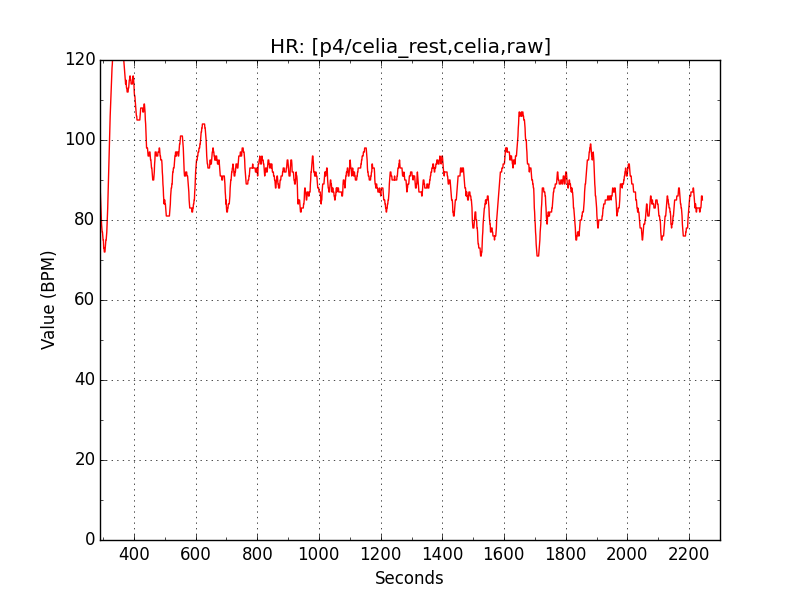
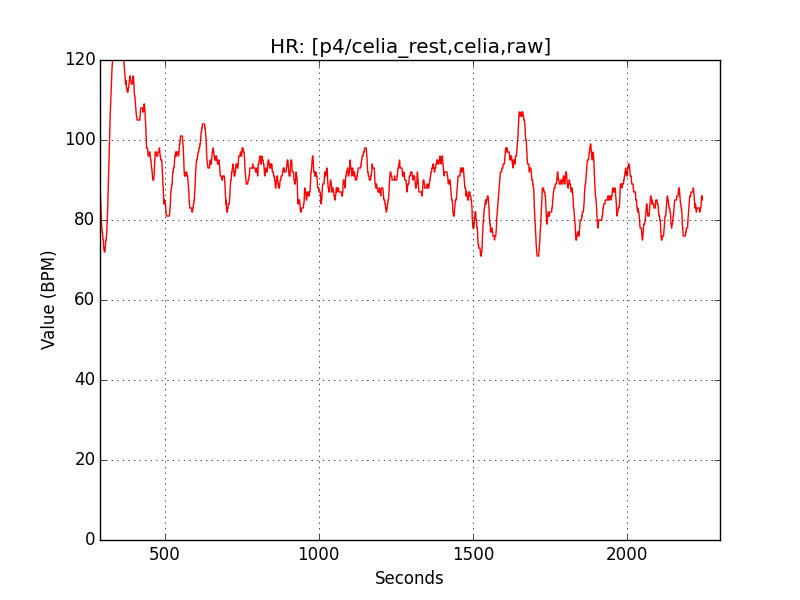
axis fix

diff --git a/process.py b/process.py
@@ -155,20 +155,20 @@ def plotIBI_ZEPHYR(subject,test,session, sounds = [],_limx=None,_limy=None,group
         #_path_norm = "%s/plots/%s_%s_HR_normalized" % (subject,subject,test)
         if (s._dataSOUNDS != None):
                 if(groupBySec):
-                        m = MyPlotter(_title_raw,_dataAvgBySec,"Seconds","Value (seconds) ",limx=_limx,limy=_limy,sounds=s.toSecSounds())
+                        m = MyPlotter(_title_raw,_dataAvgBySec,"Seconds","Value (seconds) ",limx=_limx,limy=_limy,sounds=s.toSecSounds(),_xTick=200,_yTick=1.0)
                 else:
-                        m = MyPlotter(_title_raw,_data_to_norm,"Seconds","Value (seconds) ",limx=_limx,limy=_limy,sounds=s.toSecSounds())
+                        m = MyPlotter(_title_raw,_data_to_norm,"Seconds","Value (seconds) ",limx=_limx,limy=_limy,sounds=s.toSecSounds(),_xTick=200,_yTick=1.0,_yTickMinor=0.1)
         elif (s._dataCODIFICATION != None):
                 if(groupBySec):
-                        m = MyPlotter(_title_raw,_dataAvgBySec,"Seconds","Value (seconds) ",limx=_limx,limy=_limy,codification=s._dataCODIFICATION)
+                        m = MyPlotter(_title_raw,_dataAvgBySec,"Seconds","Value (seconds) ",limx=_limx,limy=_limy,codification=s._dataCODIFICATION,_xTick=200,_yTick=2.0,_yTickMinor=0.1)
                 else:
-                        m = MyPlotter(_title_raw,_data_to_norm,"Seconds","Value (seconds) ",limx=_limx,limy=_limy,codification=s._dataCODIFICATION)
+                        m = MyPlotter(_title_raw,_data_to_norm,"Seconds","Value (seconds) ",limx=_limx,limy=_limy,codification=s._dataCODIFICATION,_xTick=200,_yTick=2.0,_yTickMinor=0.1)
 
         else:
                 if(groupBySec):
-                        m = MyPlotter(_title_raw,_dataAvgBySec,"Seconds","Value (seconds) ",limx=_limx,limy=_limy)
+                        m = MyPlotter(_title_raw,_dataAvgBySec,"Seconds","Value (seconds) ",limx=_limx,limy=_limy,_xTick=200,_yTick=2.0,_yTickMinor=0.1)
                 else:
-                        m = MyPlotter(_title_raw,_data_to_norm,"Seconds","Value (seconds)",limx=_limx,limy=_limy)
+                        m = MyPlotter(_title_raw,_data_to_norm,"Seconds","Value (seconds)",limx=_limx,limy=_limy,_xTick=200,_yTick=2.0,_yTickMinor=0.1)
 
         m.plot(_path_raw)
 def plotEEG1(subject,test,session,_limx=None,_limy=None,_groupBySec=True):

diff --git a/MyPlotter.py b/MyPlotter.py
@@ -2,7 +2,7 @@ import pylab as plt
 import numpy as np
 
 class MyPlotter:
-        def __init__(self,title,data,labelX,labelY,limx=None,limy=None,color='red',sounds = None,codification = None,linestyle="solid",_plotEach = None,_xTick=None,_yTick=None):
+        def __init__(self,title,data,labelX,labelY,limx=None,limy=None,color='red',sounds = None,codification = None,linestyle="solid",_plotEach = None,_xTick=None,_yTick=None,_yTickMinor=None):
                 self.data = data
                 self.title = title
 		self.labelX = labelX
@@ -16,6 +16,7 @@ class MyPlotter:
 		self.plotEach = _plotEach
                 self._xTick = _xTick
                 self._yTick = _yTick
+                self._yTickMinor = _yTickMinor
         def plot(self,outputFigure):
                 #init the plot
                 fig, ax = plt.subplots()
@@ -26,17 +27,19 @@ class MyPlotter:
                 ax.set_xlabel(self.labelX)
                 ax.set_ylabel(self.labelY)
                 ax.set_title(self.title)
-                if (self._xTick != None and self._yTick != None):
+                if (self._yTickMinor == None):
+                    self._yTickMinor = self._xTick/2.0
+                if (self._xTick != None or self._yTick != None):
                     # major ticks every 200, minor ticks every 100
                     major_ticks = np.arange(0, len(self.data), self._xTick)
                     minor_ticks = np.arange(0, len(self.data), self._xTick/2.0)
 
                     major_ticks_y = np.arange(0, len(self.data), self._yTick)
-                    minor_ticks_y = np.arange(0, max(self.data), self._yTick/2.0)
-                    ax.set_xticks(major_ticks)
-                    ax.set_xticks(minor_ticks, minor=True)          
-                    ax.set_yticks(major_ticks_y)                
-                    ax.set_yticks(minor_ticks_y, minor=True)                 
+                    minor_ticks_y = np.arange(0, len(self.data), self._yTickMinor)
+                    #ax.set_xticks(major_ticks)
+                    #ax.set_xticks(minor_ticks, minor=True)          
+                    #ax.set_yticks(major_ticks_y)                
+                    #ax.set_yticks(minor_ticks_y, minor=True)                 
           
 
 
